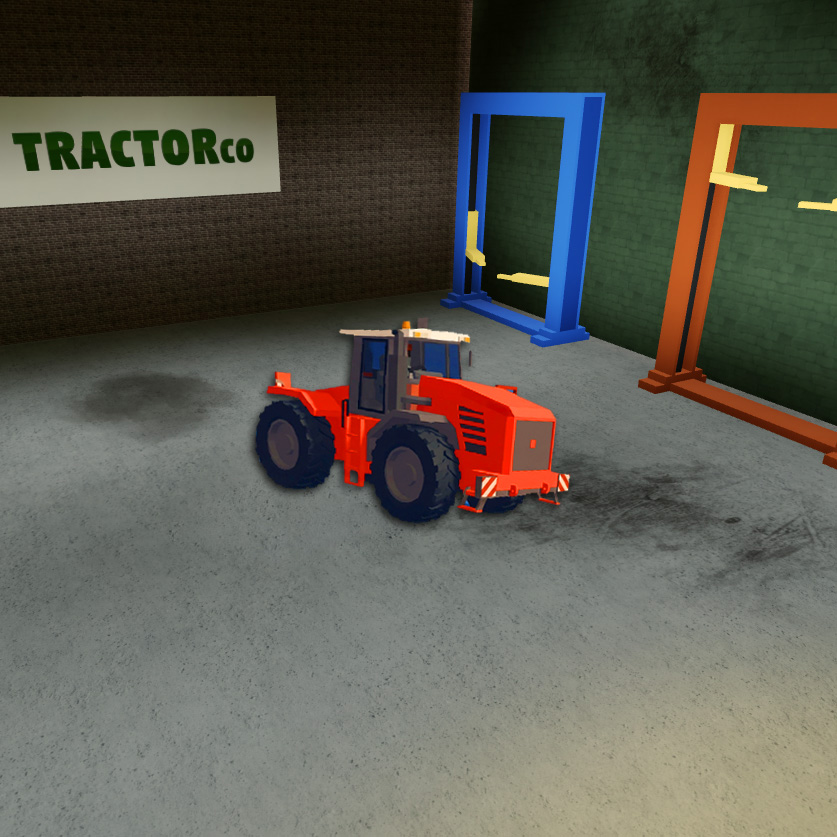
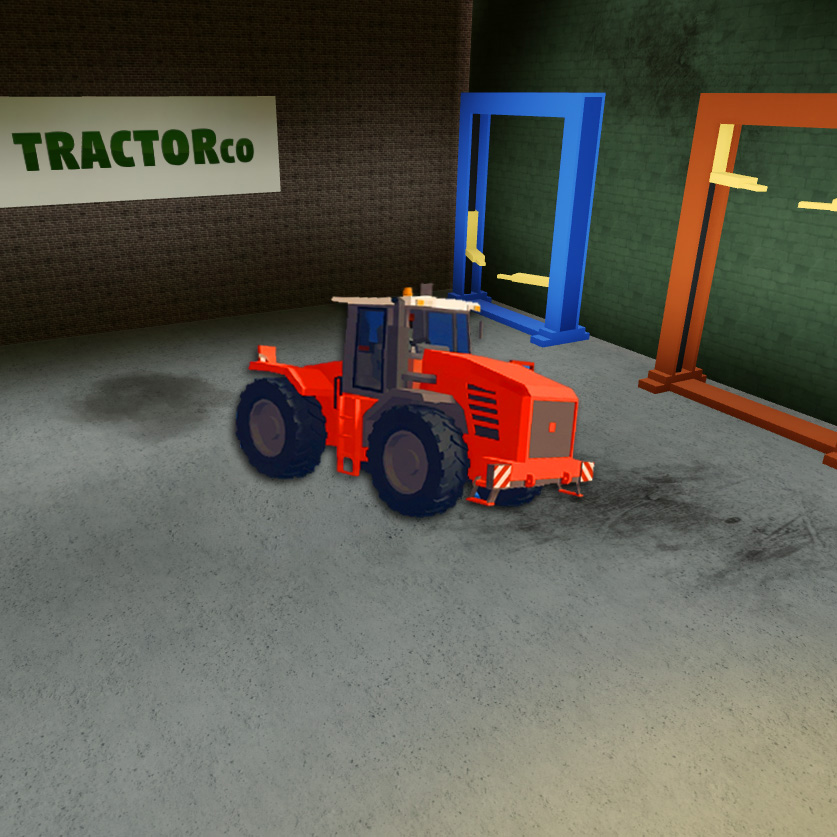
Atualizando as imagens e alterando a ordem de exibição padrão por level quando em card

Changed region(s): [[0.2485, 0.3417, 0.7145, 0.6523]]

diff --git a/script.js b/script.js
@@ -1833,6 +1833,9 @@ function filterItems(options = {}) {
   const category = document.getElementById('categoryFilter').value;
   const specialOnly = document.getElementById('specialFilter').checked;
   const sortMode = document.getElementById('sortFilter')?.value || DEFAULT_SORT_MODE;
+  const effectiveSortMode = getSelectedViewMode() === 'card' && sortMode === DEFAULT_SORT_MODE
+    ? 'level-asc'
+    : sortMode;
 
   const filtered = allItems.filter(item => {
     const matchSearch = itemMatchesSearch(item, search);
@@ -1845,7 +1848,7 @@ function filterItems(options = {}) {
     syncCatalogStateToUrl();
   }
 
-  const sortedItems = sortItemsForDisplay(filtered, sortMode);
+  const sortedItems = sortItemsForDisplay(filtered, effectiveSortMode);
   currentFilteredItems = sortedItems;
 
   if (getSelectedViewMode() === 'card') {
